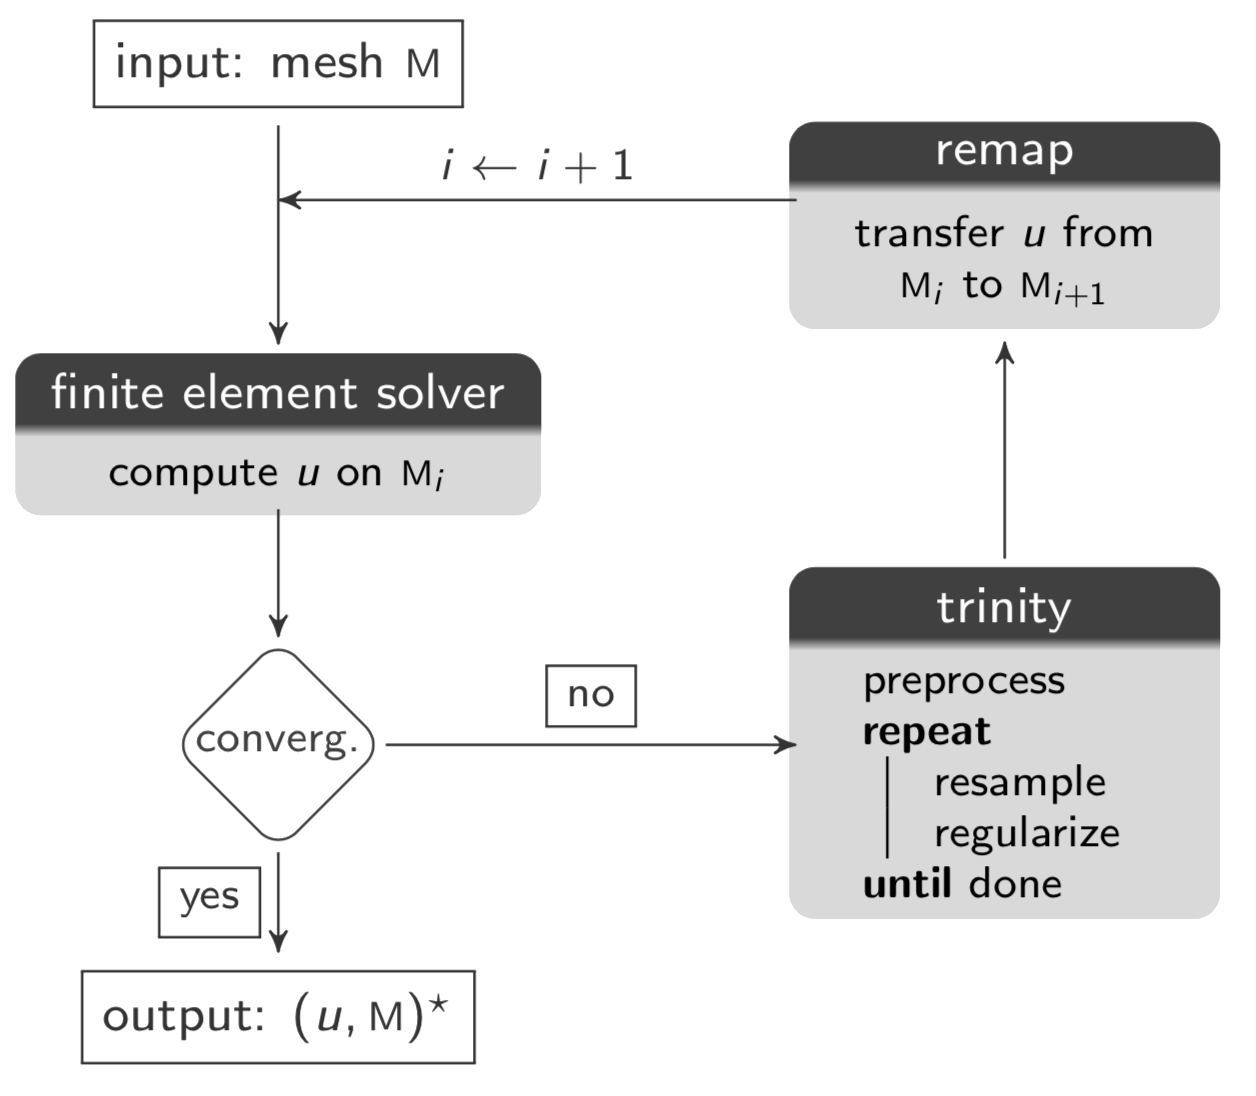
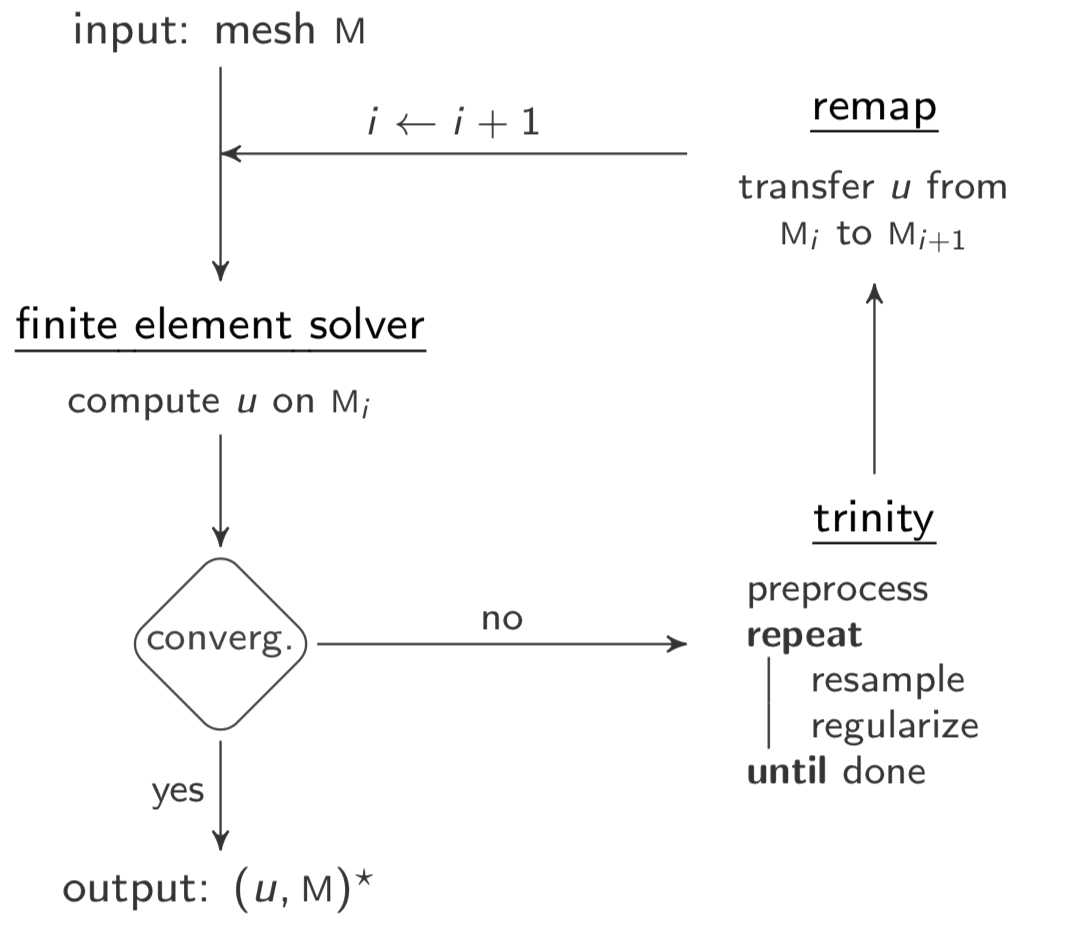
Fix image rendering issues on project web page

Changed region(s): [[0.0624, 0.0, 0.9991, 0.9957], [0.0, 0.28, 0.4371, 0.4979], [0.1873, 0.5601, 0.2498, 0.6223]]

diff --git a/docs/index.md b/docs/index.md
@@ -8,13 +8,12 @@
 It is targetted to [non-uniform memory access](https://en.wikipedia.org/wiki/Non-uniform_memory_access) multicore and [manycore](https://en.wikipedia.org/wiki/Manycore_processor) processors.  
 It is intended to be involved within a numerical simulation loop.  
 
-<img src="figures/adaptive_loop.png" alt="adaptive-loop" width="390">
+<img src="figures/adaptive_loop_inverted.png" alt="adaptive-loop" width="390">
 
-It aims to reduce and equidistribute the interpolation error of a computed physical field **_u_** on a triangulated **planar** domain **M** by adapting its discretization with respect to a target number of points **_n_**. Basically, it takes (**_u_**, **M**, **_n_**) and outputs a mesh adapted to the variation of the gradient of **_u_** on **M** using **_n_** points.  
-It uses [metric tensors](https://en.wikipedia.org/wiki/Metric_tensor) to encode the desired point distribution with respect to the estimated error.  
+It aims to reduce and equidistribute the interpolation error of a computed physical field **_u_** on a triangulated **planar** domain **M** by adapting its discretization with respect to a target number of points **_n_**. Basically, it takes (**_u_**, **M**, **_n_**) and outputs a mesh adapted to the variation of the gradient of **_u_** on **M** using **_n_** points. It uses [metric tensors](https://en.wikipedia.org/wiki/Metric_tensor) to encode the desired point distribution with respect to the estimated error.  
 It was primarly designed for **performance** and is intended for [HPC](https://en.wikipedia.org/wiki/Parallel_computing) applications.
 
-<img src="figures/principle.png" alt="principle" width="820">
+<img src="figures/principle_inverted.png" alt="principle" width="820">
 
 ----
 ### Build and use
@@ -51,8 +50,8 @@ make install                                       # optional
 To use it in your project, update your CMakeLists.txt with:
 
 ``` cmake
-find_package(trinity REQUIRED)                    # works for both build/install trees
-target_link_libraries(target PRIVATE trinity)     # replace 'target' with your library/binary
+find_package(trinity REQUIRED)                    # for build|install trees
+target_link_libraries(target PRIVATE trinity)     # replace 'target'
 ```
 And then include `trinity.h` in your application.  
 Please take a look at the [examples](examples/) folder for basic usage.
@@ -114,7 +113,7 @@ The latter rely on the computation of the variations of the gradient of **_u_**.
 It is given by its local [hessian matrices](https://en.wikipedia.org/wiki/Hessian_matrix).  
 It is computed in **trinity** through a [L^2 projection](https://doi.org/10.1002/nme.2036).  
 
-<img src="figures/multiscale_meshes.png" alt="multiscale_meshes.png" width="790">
+<img src="figures/multiscale_meshes_inverted.png" alt="multiscale_meshes.png" width="790">
 
 ###### Fine-grained parallelism
 **trinity** enables intra-node parallelism by [multithreading](https://en.wikipedia.org/wiki/Multithreading_(computer_architecture)).  
@@ -123,7 +122,7 @@ All kernels are structured into synchronous stages.
 A stage consists of local computation, a [reduction](https://en.wikipedia.org/wiki/Reduce_(parallel_pattern)) in shared-memory, and a [barrier](https://en.wikipedia.org/wiki/Barrier_(computer_science)).  
 
 <table>
-  <tr><td><img src="figures/algo_structure.png" alt="algo_structure" width="600"></td></tr>
+  <tr><td><img src="figures/algo_structure_inverted.png" alt="algo_structure" width="600"></td></tr>
 </table>
 
 >It does **not** rely on [domain partitioning](http://www.cs.cmu.edu/~quake/sc96/node5.html) unlike coarse-grained parallel remeshers.  
@@ -138,7 +137,7 @@ Runnable tasks are then extracted using multithreaded heuristics:
 -    maximal [matching](https://en.wikipedia.org/wiki/Matching_(graph_theory)) for swapping
 -    maximal [coloring](https://en.wikipedia.org/wiki/Graph_coloring) for smoothing
 
-<img src="figures/graph_matching.png" alt="graph_matching.png" width="450">
+<img src="figures/graph_matching_inverted.png" alt="graph_matching_inverted.png" width="450">
 
  **trinity** fixes incidence data only at the end of a round of any kernel.  
 It uses an explicit synchronization scheme to fix them.  
